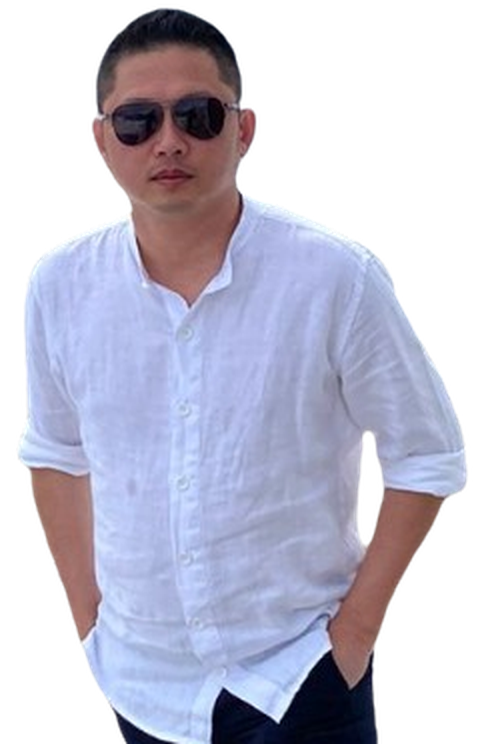
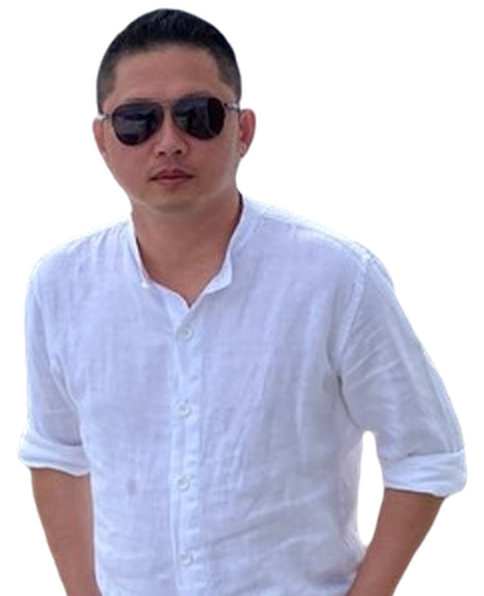
Add files via upload

diff --git a/kartu.js b/kartu.js
@@ -20,7 +20,7 @@
       '<div class="orang' + (o.foto ? (o.potong ? " potong" : " bingkai") : "") + '">' + orang + '</div></div>' +
       '<div class="garis"></div><div class="strip"><div class="info">' +
       '<div class="nama' + (o.nama.length > 14 ? " panjang" : "") + '">' + aman(o.nama) + '</div>' +
-      '<div class="jab">' + aman(o.jabatan) + '</div>' +
+      '<div class="jab' + (String(o.jabatan).length > 14 ? " rapat" : "") + '">' + aman(o.jabatan) + '</div>' +
       (o.wilayah ? '<div class="wil">Wilayah ' + aman(o.wilayah) + '</div>' : "") + '</div>' +
       (tautQR ? '<a class="kode" href="' + url + '">' + kode + '</a>' : '<div class="kode">' + kode + '</div>') +
       '</div></div>';

diff --git a/kartu.css b/kartu.css
@@ -27,6 +27,7 @@
 .tag .nama{font-family:var(--serif);font-weight:600;font-size:4.1mm;line-height:1.12}
 .tag .nama.panjang{font-size:3.5mm}
 .tag .jab{font-size:1.75mm;letter-spacing:.2em;text-transform:uppercase;color:var(--red);font-weight:600;margin-top:1.5mm;line-height:1.4}
+.tag .jab.rapat{font-size:1.6mm;letter-spacing:.07em;white-space:nowrap}
 .tag .wil{font-size:2.15mm;color:var(--muted);margin-top:.7mm}
 .tag .kode{display:block;flex:none;width:23.5mm;text-align:center;text-decoration:none}
 .tag .kode svg{display:block;width:100%;height:auto}
